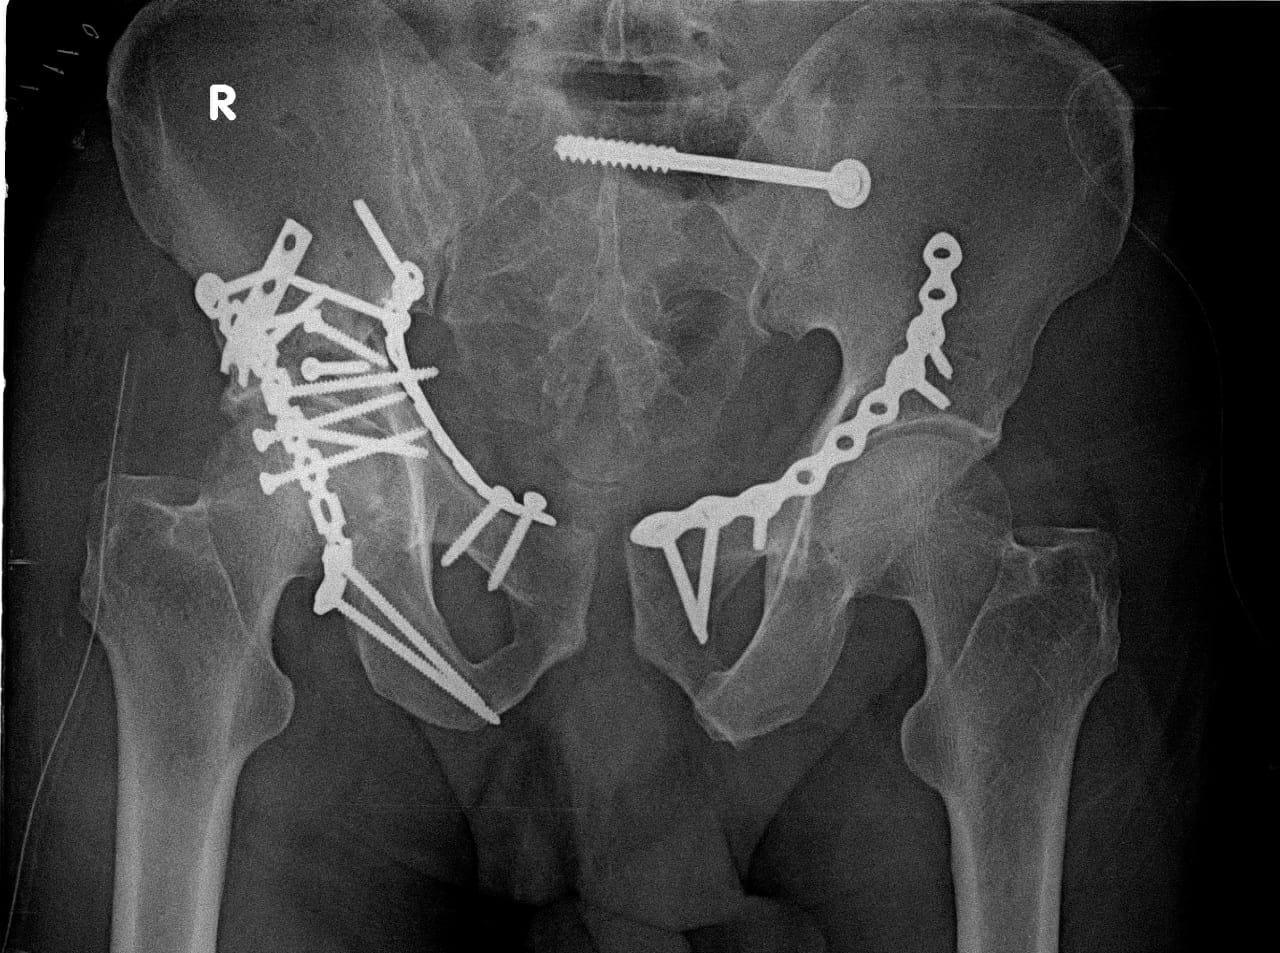
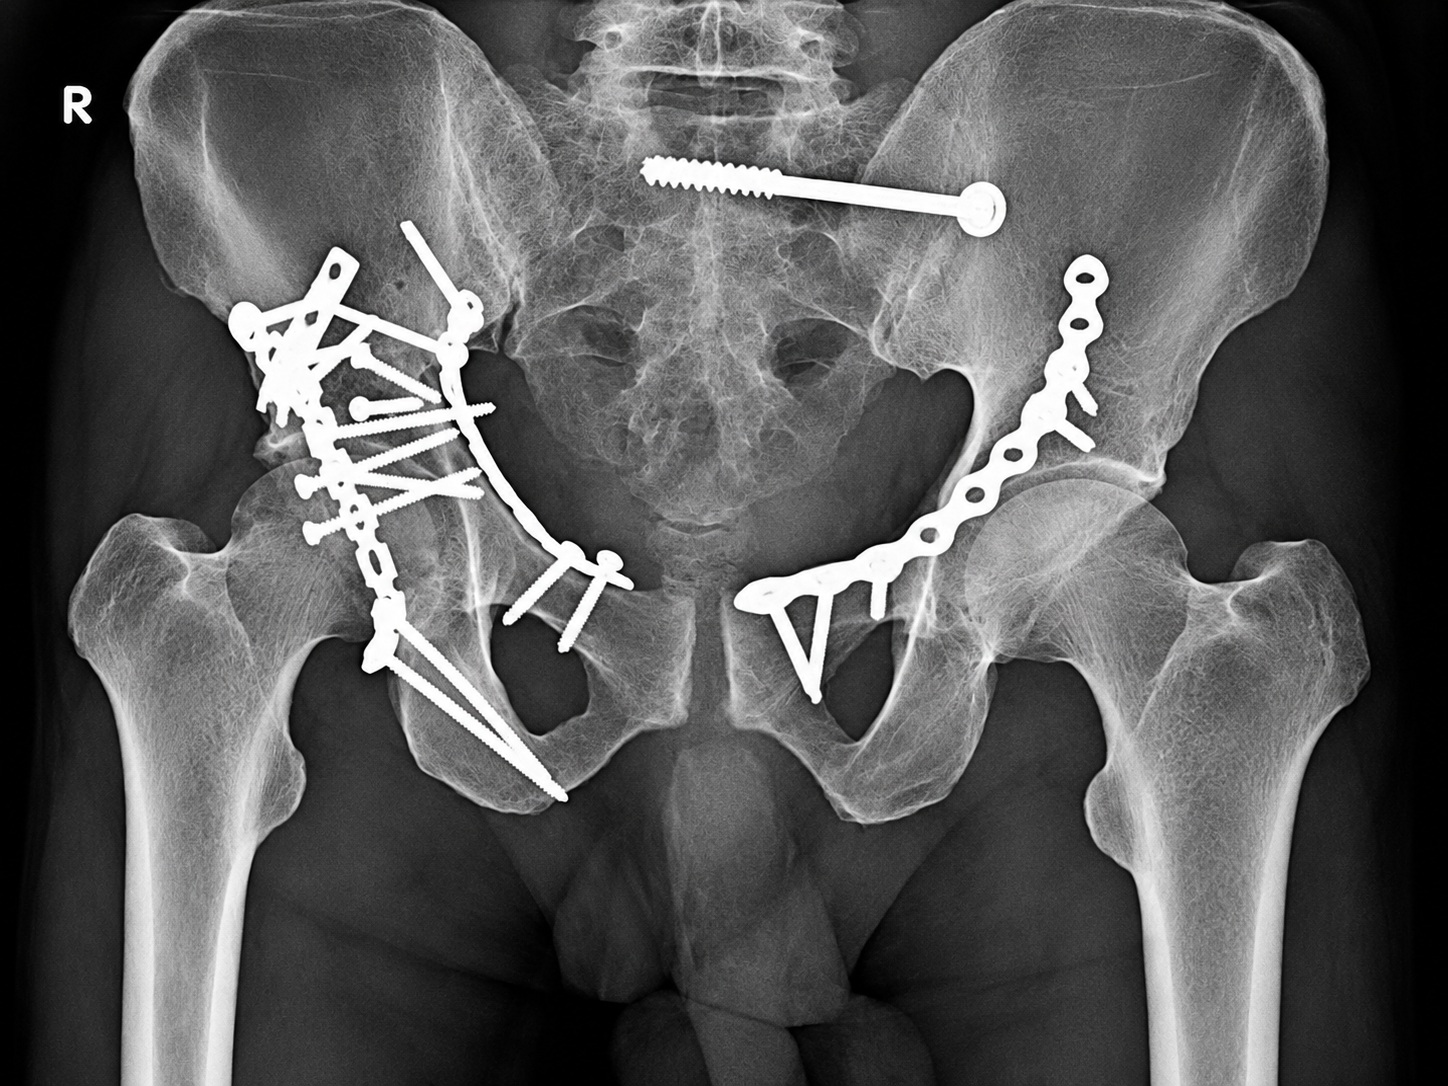
Update service images and image display

diff --git a/src/components/ServiceCard.tsx b/src/components/ServiceCard.tsx
@@ -24,13 +24,13 @@ export function ServiceCard({ service, eager = false }: ServiceCardProps) {
       aria-label={`${service.title} — view treatment details`}
       className="group block cursor-pointer overflow-hidden rounded-2xl border border-gray-100 bg-white text-left shadow-sm transition-all duration-200 hover:border-blue-200 hover:shadow-lg focus:outline-none focus-visible:ring-2 focus-visible:ring-blue-500"
     >
-      <div className="relative h-48 overflow-hidden">
+      <div className="relative h-48 overflow-hidden bg-gray-50">
         <img
           src={service.image}
           alt={service.imageAlt}
           loading={eager ? 'eager' : 'lazy'}
           decoding="async"
-          className="absolute inset-0 h-full w-full object-cover transition-transform duration-300 group-hover:scale-105"
+          className="absolute inset-0 h-full w-full object-contain transition-transform duration-300 group-hover:scale-105"
         />
       </div>
 

diff --git a/src/pages/ServiceDetailPage.tsx b/src/pages/ServiceDetailPage.tsx
@@ -54,7 +54,7 @@ export default function ServiceDetailPage() {
               alt={service.imageAlt}
               loading="eager"
               decoding="async"
-              className="h-56 w-full object-cover"
+              className="h-56 w-full bg-gray-50 object-contain"
             />
 
             <div className="space-y-3 p-6">
